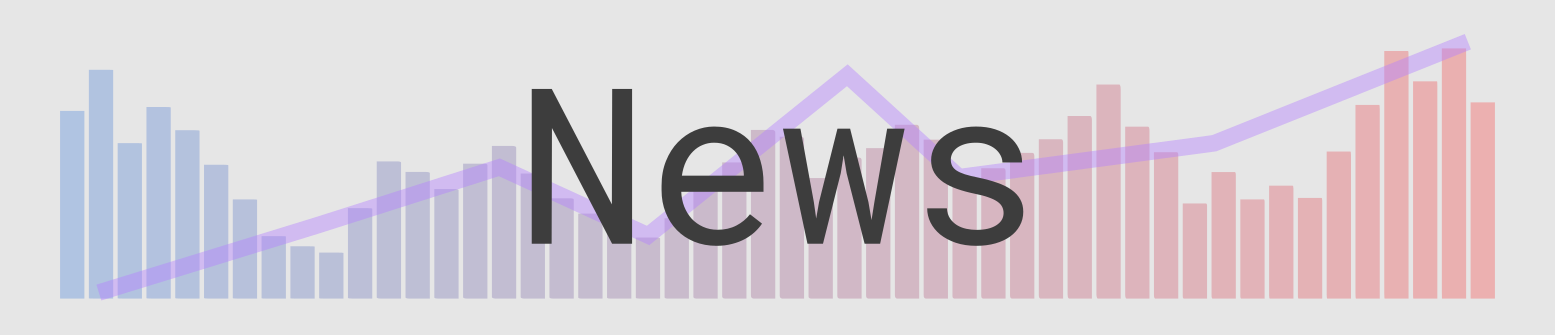
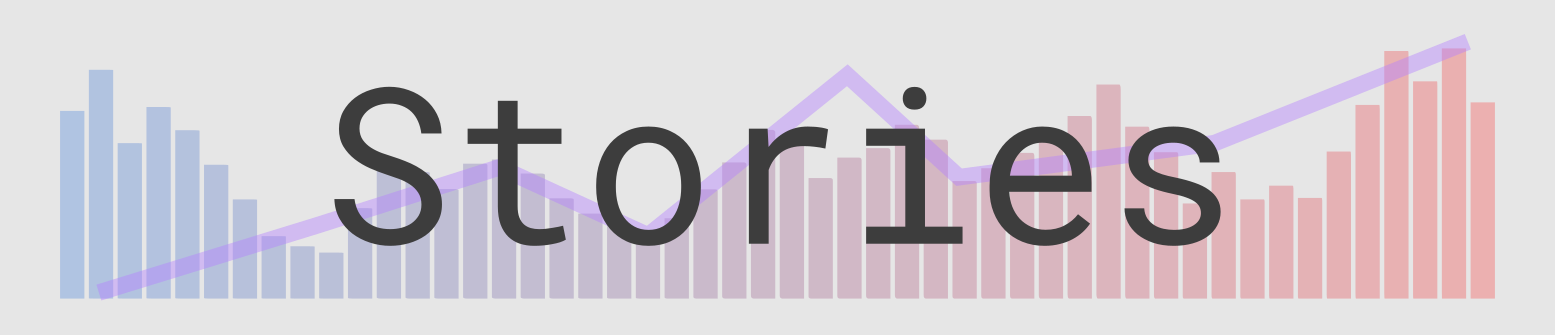
final tweaks

Changed region(s): [[0.2161, 0.2388, 0.8026, 0.7463], [0.5556, 0.2687, 0.6174, 0.3284]]

diff --git a/about.html b/about.html
@@ -34,7 +34,7 @@
         <div class="nav-links">
             <a class="nav-link" href="index.html">Home</a>
             <a class="nav-link" href="predictions.html">Predictions</a>
-            <a class="nav-link" href="news.html">News</a>
+            <a class="nav-link" href="stories.html">Stories</a>
             <a class="nav-link" id="nav-link-selected" href="about.html">About</a>
         </div>
 
@@ -52,7 +52,7 @@
             <p><b><span class="number">50Fifty</b></span>  is a project by Sam Mahle (<a class="twitter" target="_blank" href="https://twitter.com/samthunder18">@samthunder18</a>) and <a target="_blank" href="https://noahcovey.com">Noah Covey</a> (<a class="twitter" target="_blank" href="https://twitter.com/noah_covey">@noah_covey</a>). Follow 50Fifty <a class="twitter" target="_blank" href="https://twitter.com/50Fifty_us">@50fifty_us</a>, or shoot us an email at <a href="mailto:contact@50fifty.us">contact@50fifty.us</a>.</p>
             <p>We have open-sourced the prediction results of our machine learning model and some of the data we compiled for the model on Github. <a target="_blank" href="https://github.com/Covmon/Politicus">Check it out here</a>. Feel free to download the data and reuse it in your own visualizations.</p>
             <p>50Fifty uses <a target="_blank" href="http://scikit-learn.org">Scikit-Learn</a> for machine learning, running regression analysis on a variety of data points (called features), such as demographics and fundraising, from past elections. These classifiers then receive current candidates' features and compute their expected performance, in terms of both projected vote share and projected win probability, in the upcoming midterm elections.</p>
-            <p>Data sources for the ML model include <a target="_blank" href="http://openelections.net">OpenElections</a> (for past election results) and the <a target="_blank" href="http://census.gov">Census Bureau</a> (for demographic data).</p>
+            <p>Data sources for the ML model include <a target="_blank" href="http://openelections.net">OpenElections</a> (for past election results) and the <a target="_blank" href="http://census.gov">Census Bureau</a> (for demographic data). Read more about our <a href="https://50fifty.us/news.html#our-methodology">methedology here</a>.</p>
             <p>Our website was designed and coded in HTML, CSS, JavaScript. The following libraries, frameworks, and APIs were integral to the development of 50Fifty: <a target="_blank" href="http://jquery.com">jQuery</a>, <a target="_blank" href="http://datatables.net">DataTables</a>, <a target="_blank" href="https://developer.here.com">HERE</a>, and the <a target="_blank" href="https://developers.google.com/civic-information/">Google Civic Information API</a>.</p>
             <p>If you have any questions, comments, or suggestions, please feel free to contact us at <a href="mailto:contact@50fifty.us">contact@50fifty.us</a>. Media: <a target="_blank" href="https://drive.google.com/drive/folders/1eD7h_80dMoXoCy7JOxBYa7UlHr6-kCKC?usp=sharing">download our press kit here</a>.</p>
         </div>

diff --git a/stories.html b/stories.html
@@ -31,7 +31,7 @@
         <div class="nav-links">
             <a class="nav-link" href="index.html">Home</a>
             <a class="nav-link" href="predictions.html">Predictions</a>
-            <a class="nav-link" id="nav-link-selected" href="news.html">News</a>
+            <a class="nav-link" id="nav-link-selected" href="stories.html">Stories</a>
             <a class="nav-link" href="about.html">About</a>
         </div>
     </div>

diff --git a/predictions.html b/predictions.html
@@ -41,7 +41,7 @@
         <div class="nav-links">
             <a class="nav-link" href="index.html">Home</a>
             <a class="nav-link" id="nav-link-selected" href="predictions.html">Predictions</a>
-            <a class="nav-link" href="news.html">News</a>
+            <a class="nav-link" href="stories.html">Stories</a>
             <a class="nav-link" href="about.html">About</a>
         </div>
     </div>

diff --git a/predictions_governors.html b/predictions_governors.html
@@ -43,7 +43,7 @@
         <div class="nav-links">
             <a class="nav-link" href="index.html">Home</a>
             <a class="nav-link" id="nav-link-selected" href="predictions.html">Predictions</a>
-            <a class="nav-link" href="news.html">News</a>
+            <a class="nav-link" href="stories.html">Stories</a>
             <a class="nav-link" href="about.html">About</a>
         </div>
     </div>

diff --git a/predictions_house.html b/predictions_house.html
@@ -43,7 +43,7 @@
         <div class="nav-links">
             <a class="nav-link" href="index.html">Home</a>
             <a class="nav-link" id="nav-link-selected" href="predictions.html">Predictions</a>
-            <a class="nav-link" href="news.html">News</a>
+            <a class="nav-link" href="stories.html">Stories</a>
             <a class="nav-link" href="about.html">About</a>
         </div>
     </div>

diff --git a/predictions_senate.html b/predictions_senate.html
@@ -43,7 +43,7 @@
         <div class="nav-links">
             <a class="nav-link" href="index.html">Home</a>
             <a class="nav-link" id="nav-link-selected" href="predictions.html">Predictions</a>
-            <a class="nav-link" href="news.html">News</a>
+            <a class="nav-link" href="stories.html">Stories</a>
             <a class="nav-link" href="about.html">About</a>
         </div>
     </div>

diff --git a/predictions_state_houses.html b/predictions_state_houses.html
@@ -42,7 +42,7 @@
         <div class="nav-links">
             <a class="nav-link" href="index.html">Home</a>
             <a class="nav-link" id="nav-link-selected" href="predictions.html">Predictions</a>
-            <a class="nav-link" href="news.html">News</a>
+            <a class="nav-link" href="stories.html">Stories</a>
             <a class="nav-link" href="about.html">About</a>
         </div>
     </div>

diff --git a/predictions_state_senates.html b/predictions_state_senates.html
@@ -43,7 +43,7 @@
         <div class="nav-links">
             <a class="nav-link" href="index.html">Home</a>
             <a class="nav-link" id="nav-link-selected" href="predictions.html">Predictions</a>
-            <a class="nav-link" href="news.html">News</a>
+            <a class="nav-link" href="stories.html">Stories</a>
             <a class="nav-link" href="about.html">About</a>
         </div>
     </div>

diff --git a/index.html b/index.html
@@ -36,7 +36,7 @@
         <div class="nav-links">
             <a class="nav-link" id="nav-link-selected" href="index.html">Home</a>
             <a class="nav-link" href="predictions.html">Predictions</a>
-            <a class="nav-link" href="news.html">News</a>
+            <a class="nav-link" href="stories.html">Stories</a>
             <a class="nav-link" href="about.html">About</a>
         </div>
 
